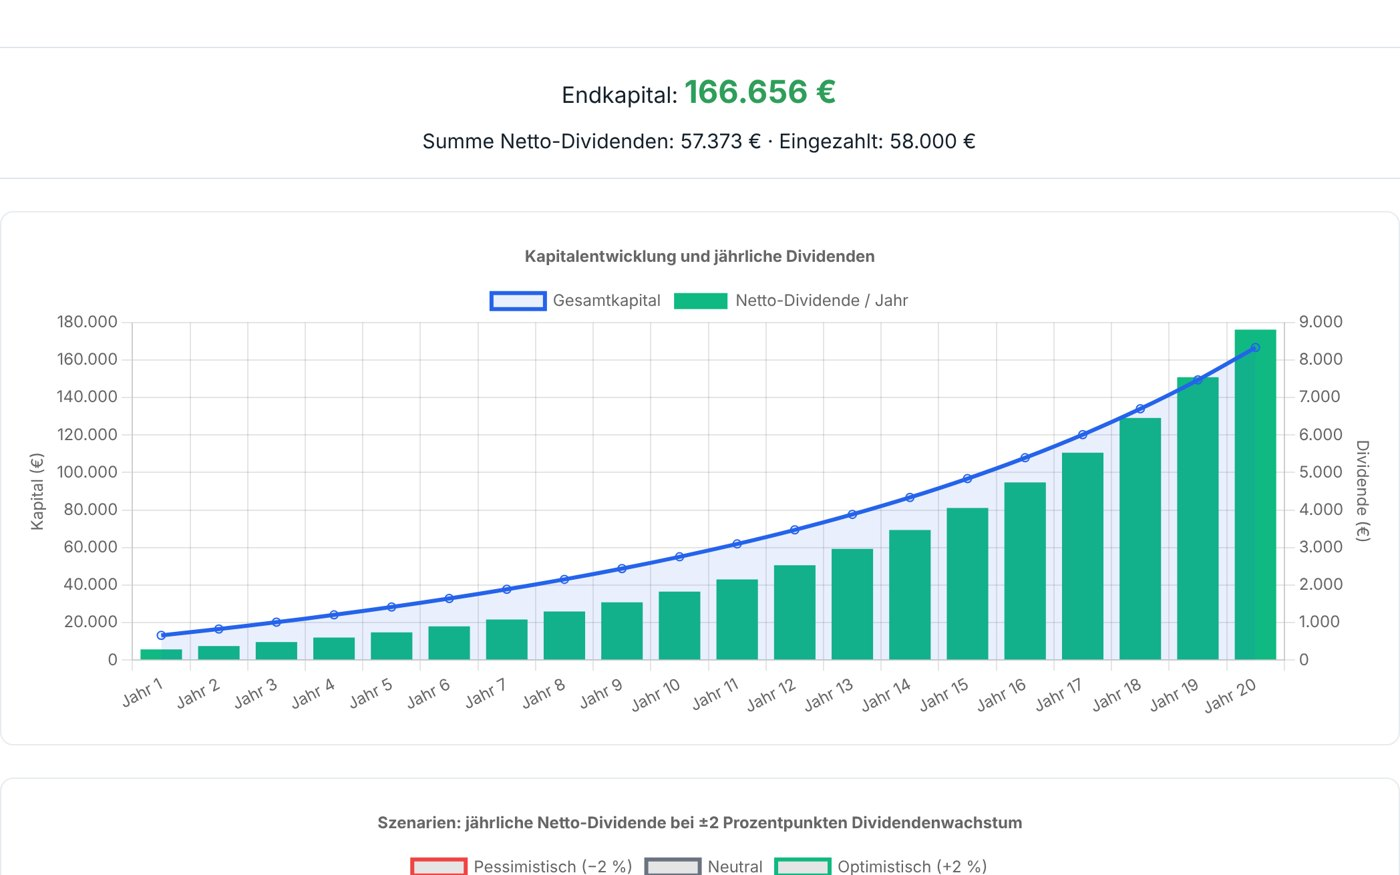
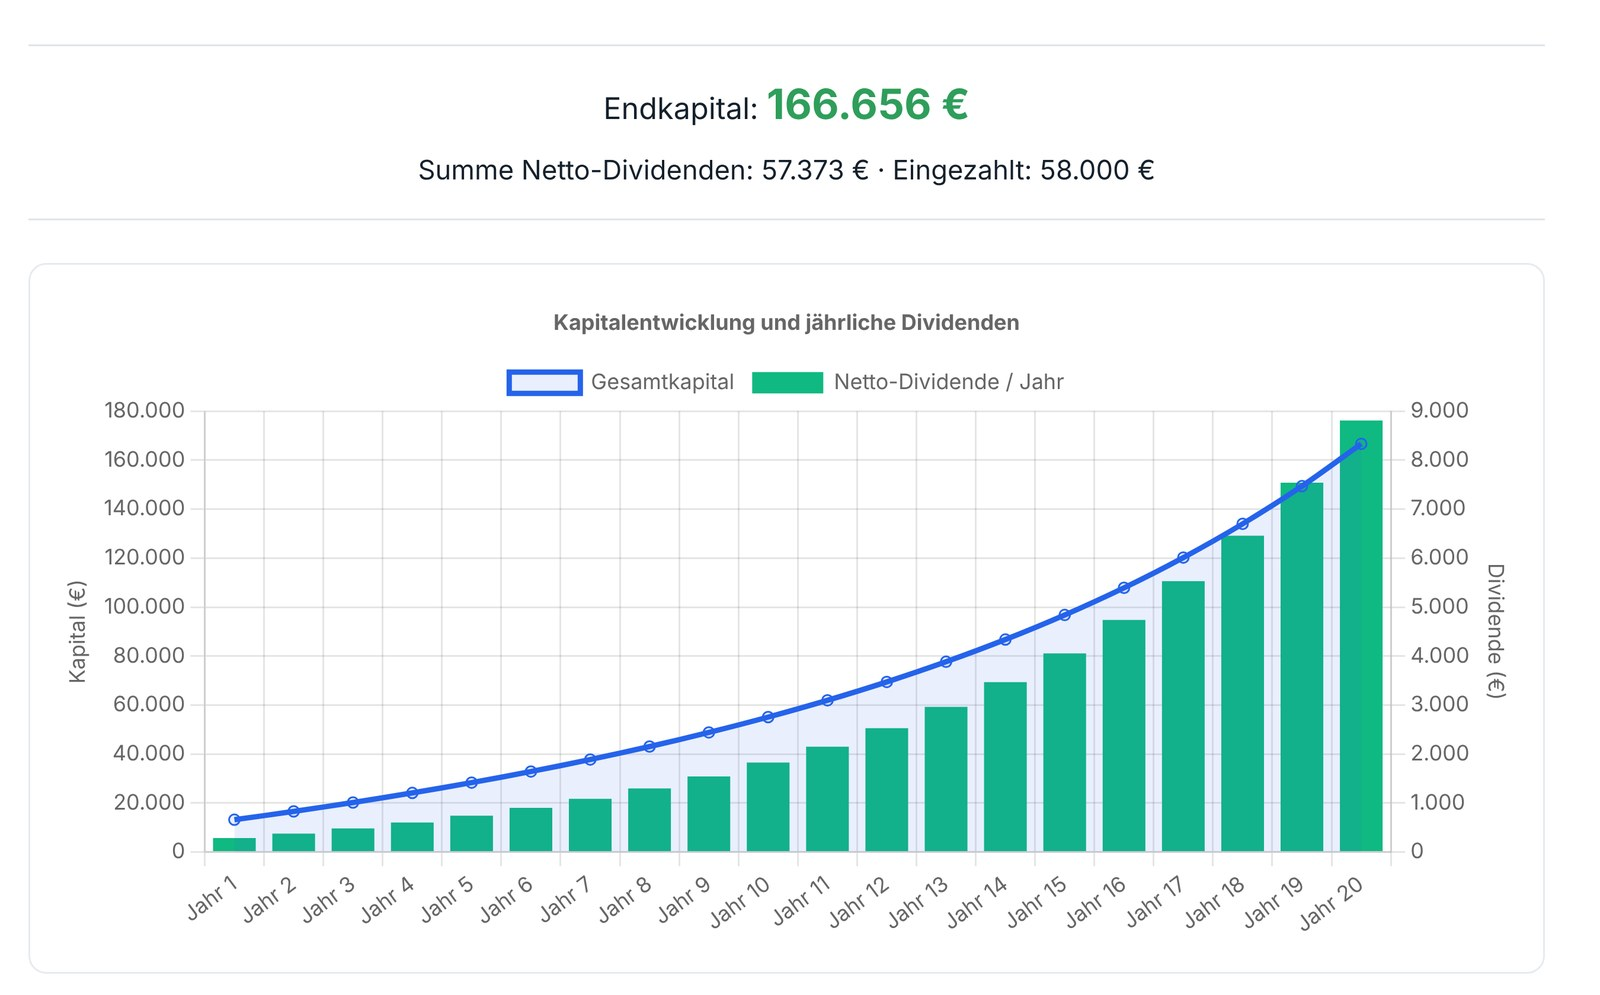
Startseite: schwarzes Handy mit modernem Rahmen, schärfere Screenshots
Claude-Session: https://claude.ai/code/session_019XvbgBLukfMhVVHAfy3Xu4

diff --git a/index.html b/index.html
@@ -205,7 +205,7 @@ body.tools article.wide>section.home-alle,body.tools article.wide>nav.calc-menu,
 <p class="hb-lead">Rechnen am Handy, prüfen am Desktop. Dein Plan ist überall derselbe.</p>
 <p class="hb-cta"><a class="hb-btn" href="rechner/">Jetzt rechnen</a><a class="hb-lnk" href="aktien-hub/">Aktie prüfen →</a></p>
 <p class="hb-k">Kostenlos · ohne Anmeldung</p></div>
-<div class="hb-dev" aria-hidden="true"><div class="hb-lap"><img src="assets/start/rechner-desktop.jpg" alt="" width="1400" height="875"></div><div class="hb-ph"><img src="assets/start/rechner-handy.jpg" alt="" width="680" height="1360"></div></div>
+<div class="hb-dev" aria-hidden="true"><div class="hb-lap"><img src="assets/start/rechner-desktop.jpg" alt="" width="1600" height="995"></div><div class="hb-ph"><img src="assets/start/rechner-handy.jpg" alt="" width="900" height="1829"></div></div>
 </div></section>
 <style>.hb{background:#fff}.hb-in{max-width:1100px;margin:auto;padding:36px 16px 28px;display:grid;gap:8px}
 .hb h1{font-size:clamp(30px,5.4vw,52px);line-height:1.08;margin:0 0 12px;letter-spacing:-.02em;color:#14231b;border:0;padding:0}
@@ -217,9 +217,9 @@ body.tools article.wide>section.home-alle,body.tools article.wide>nav.calc-menu,
 .hb-dev{position:relative;height:330px;margin-top:10px}
 .hb-lap{position:absolute;left:0;top:30px;width:86%;aspect-ratio:16/10;background:#fff;border:8px solid #1d2a23;border-radius:12px 12px 4px 4px;box-shadow:0 20px 40px #0002;overflow:hidden}
 .hb-lap:after{content:"";position:absolute}
-.hb-ph{position:absolute;right:7%;top:6px;width:32%;aspect-ratio:9/18;background:#0b0f0d;border:5px solid #f1f3f2;border-radius:24px;transform:perspective(1100px) rotateY(-16deg) rotateX(3deg) rotateZ(11deg);box-shadow:1px 0 #d9dedb,2px 0 #d3d8d5,3px 0 #cdd2cf,4px 1px #c7ccc9,5px 1px #c1c6c3,6px 2px #bbc0bd,7px 2px #b5bab7,8px 3px #afb4b1,26px 30px 34px #0003}
+.hb-ph{position:absolute;right:7%;top:6px;width:32%;aspect-ratio:9/19;background:#050505;border:5px solid #0a0a0b;border-radius:26px;transform:perspective(1100px) rotateY(-16deg) rotateX(3deg) rotateZ(11deg);box-shadow:0 0 0 1px #3b3e3d,1px 0 #1c1e1d,2px 0 #1c1e1d,3px 1px #1a1c1b,4px 1px #181a19,5px 2px #161817,6px 2px #141615,7px 3px #121413,26px 30px 34px #0004}
 .hb-lap img,.hb-ph img{display:block;width:100%;height:100%;object-fit:cover;object-position:center top}
-.hb-ph img{border-radius:18px;border:3px solid #0b0f0d}@media(min-width:760px){.hb-in{grid-template-columns:1.1fr 1fr;align-items:center;gap:40px;padding-top:60px}.hb-dev{height:420px}}</style>
+.hb-ph img{border-radius:21px}@media(min-width:760px){.hb-in{grid-template-columns:1.1fr 1fr;align-items:center;gap:40px;padding-top:60px}.hb-dev{height:420px}}</style>
 <script>
 (function(){var $=function(i){return document.getElementById(i)};if(!$("hk0"))return;
 function eur(v){return Math.round(v).toLocaleString("de-DE")+" €"}
